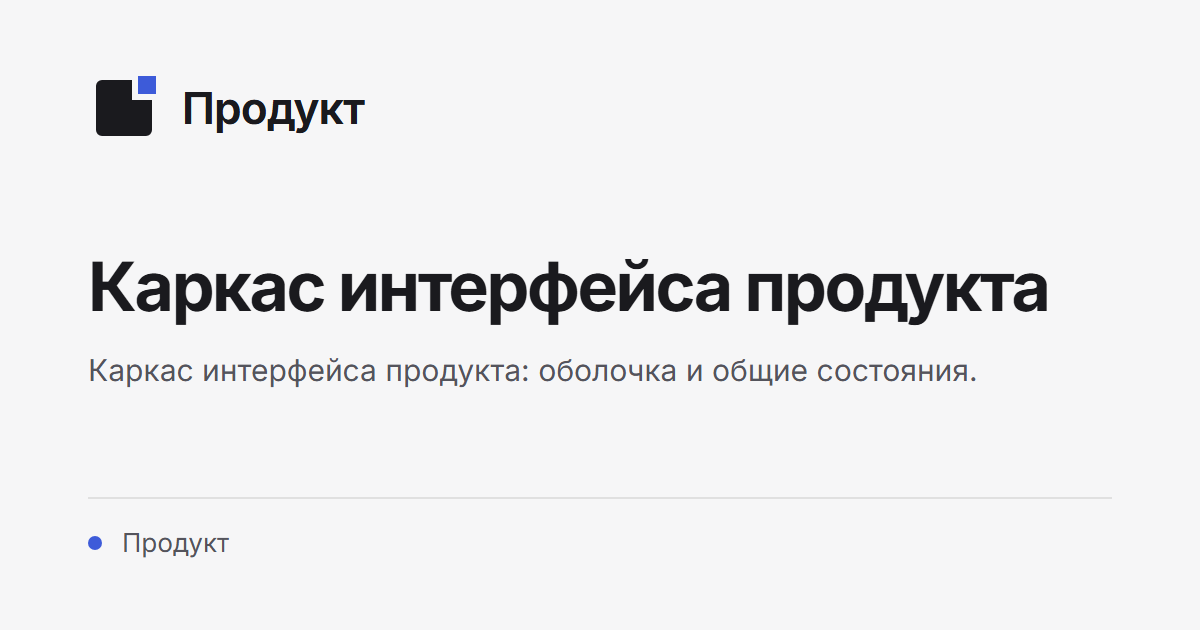
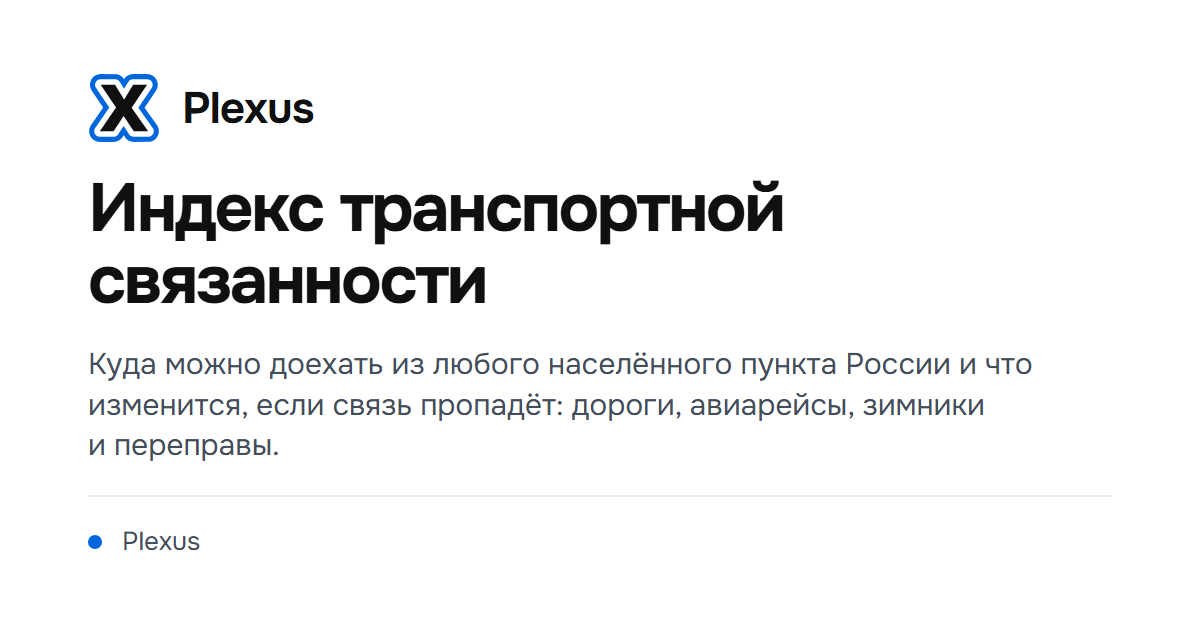
feat(frontend): apply plexus tokens, onest font and brand assets

diff --git a/frontend/src/shared/styles/tokens/semantic.css b/frontend/src/shared/styles/tokens/semantic.css
@@ -1,40 +1,87 @@
 :root {
   color-scheme: light;
 
-  --surface-base: var(--neutral-50);
+  --surface-base: var(--neutral-0);
   --surface-raised: var(--neutral-0);
-  --surface-raised-hover: color-mix(in oklab, var(--neutral-0), var(--neutral-900) 4%);
-  --surface-sunken: var(--neutral-100);
+  --surface-raised-hover: var(--neutral-25);
+  --surface-muted: var(--neutral-25);
+  --surface-sunken: var(--neutral-50);
   --surface-selected: var(--neutral-0);
-  --surface-skeleton: color-mix(in oklab, var(--neutral-0), var(--neutral-900) 8%);
+  --surface-accent-soft: var(--blue-50);
+  --surface-inverse: var(--neutral-950);
+  --surface-skeleton: var(--neutral-100);
 
-  --text-primary: var(--neutral-900);
-  --text-secondary: var(--neutral-600);
-  --text-muted: var(--neutral-500);
-  --text-disabled: color-mix(in oklab, var(--neutral-900) 38%, var(--neutral-0));
-  --text-accent: var(--accent-600);
+  --text-primary: var(--neutral-950);
+  --text-secondary: var(--neutral-700);
+  --text-muted: var(--neutral-600);
+  --text-disabled: var(--neutral-400);
+  --text-on-inverse: var(--neutral-0);
+  --text-accent: var(--blue-600);
   --text-danger: var(--red-600);
-  --text-success: var(--green-700);
-  --text-warning: var(--amber-700);
+  --text-success: var(--green-600);
+  --text-warning: var(--amber-600);
   --action-primary-text: var(--neutral-0);
 
-  --action-primary: var(--accent-500);
-  --action-primary-hover: var(--accent-600);
-  --action-primary-press: var(--accent-700);
-  --action-ghost-hover: color-mix(in oklab, var(--neutral-900) 6%, transparent);
-  --action-ghost-press: color-mix(in oklab, var(--neutral-900) 11%, transparent);
+  --action-primary: var(--blue-600);
+  --action-primary-hover: var(--blue-700);
+  --action-primary-press: var(--blue-800);
+  --action-ghost-hover: color-mix(in oklab, var(--neutral-950) 6%, transparent);
+  --action-ghost-press: color-mix(in oklab, var(--neutral-950) 11%, transparent);
+  --action-danger: var(--red-600);
+  --action-danger-hover: var(--red-700);
   --action-disabled: var(--neutral-100);
 
-  --border-subtle: color-mix(in oklab, var(--neutral-900) 10%, transparent);
-  --border-strong: color-mix(in oklab, var(--neutral-900) 18%, transparent);
+  --border-subtle: var(--neutral-100);
+  --border-default: var(--neutral-200);
+  --border-strong: var(--neutral-300);
+  --border-control: var(--neutral-450);
 
   --status-danger: var(--red-600);
-  --status-success: var(--green-700);
-  --status-warning: var(--amber-700);
-  --status-neutral: var(--neutral-500);
+  --status-danger-surface: var(--red-50);
+  --status-success: var(--green-600);
+  --status-success-surface: var(--green-50);
+  --status-warning: var(--amber-600);
+  --status-warning-surface: var(--amber-50);
+  --status-info: var(--blue-600);
+  --status-info-surface: var(--blue-50);
+  --status-neutral: var(--neutral-600);
 
-  --focus-ring: var(--accent-500);
+  --focus-ring: var(--blue-500);
   --shadow-color: color-mix(in oklab, var(--neutral-950) 12%, transparent);
-  --scrollbar-thumb: color-mix(in oklab, var(--neutral-900) 24%, transparent);
-  --scrollbar-thumb-hover: color-mix(in oklab, var(--neutral-900) 42%, transparent);
+  --shadow-color-strong: color-mix(in oklab, var(--neutral-950) 24%, transparent);
+  --scrim: color-mix(in oklab, var(--neutral-950) 36%, transparent);
+  --scrollbar-thumb: color-mix(in oklab, var(--neutral-950) 22%, transparent);
+  --scrollbar-thumb-hover: color-mix(in oklab, var(--neutral-950) 40%, transparent);
+
+  --iso-1: var(--iso-ring-1);
+  --iso-2: var(--iso-ring-2);
+  --iso-3: var(--iso-ring-3);
+
+  --map-land: var(--land-100);
+  --map-none: var(--land-200);
+  --map-water: var(--water-200);
+  --map-water-line: var(--water-400);
+  --map-border: var(--neutral-0);
+  --map-selected: var(--neutral-950);
+
+  --data-seq-1: var(--teal-1);
+  --data-seq-2: var(--teal-2);
+  --data-seq-3: var(--teal-3);
+  --data-seq-4: var(--teal-4);
+  --data-seq-5: var(--teal-5);
+  --data-seq-6: var(--teal-6);
+  --data-seq-7: var(--teal-7);
+  --data-loss-3: var(--orange-3);
+  --data-loss-2: var(--orange-2);
+  --data-loss-1: var(--orange-1);
+  --data-zero: var(--sand-0);
+  --data-gain-1: var(--violet-1);
+  --data-gain-2: var(--violet-2);
+  --data-gain-3: var(--violet-3);
+
+  --mode-air: var(--mode-air-hue);
+  --mode-river: var(--mode-river-hue);
+  --mode-winter: var(--mode-winter-hue);
+  --mode-ferry: var(--mode-ferry-hue);
+  --mode-road: var(--mode-road-hue);
 }

diff --git a/frontend/src/shared/styles/tokens/palette.css b/frontend/src/shared/styles/tokens/palette.css
@@ -1,27 +1,56 @@
 :root {
   --neutral-0: #ffffff;
-  --neutral-50: #f6f6f7;
-  --neutral-100: #ececee;
-  --neutral-150: #e2e2e6;
-  --neutral-200: #d4d4d9;
-  --neutral-300: #b5b5bd;
-  --neutral-400: #8c8c96;
-  --neutral-500: #686872;
-  --neutral-600: #54545c;
-  --neutral-700: #3e3e45;
-  --neutral-800: #2b2b30;
-  --neutral-850: #222226;
-  --neutral-900: #1a1a1e;
-  --neutral-950: #121215;
-  --accent-200: #b9c6f7;
-  --accent-300: #93a6f2;
-  --accent-500: #3d5bd9;
-  --accent-600: #3149bd;
-  --accent-700: #273b9a;
-  --red-300: #f59a9a;
-  --red-600: #c4322f;
-  --green-300: #7fd1a0;
-  --green-700: #1d7a45;
-  --amber-300: #f2c46d;
-  --amber-700: #8f5a00;
+  --neutral-25: #f8f9fb;
+  --neutral-50: #f2f4f7;
+  --neutral-100: #e8ebf0;
+  --neutral-200: #d5dae2;
+  --neutral-300: #bbc2ce;
+  --neutral-400: #8b96aa;
+  --neutral-450: #7d889c;
+  --neutral-500: #6b7588;
+  --neutral-600: #566171;
+  --neutral-700: #444d5a;
+  --neutral-800: #23262d;
+  --neutral-900: #15171b;
+  --neutral-950: #0e1012;
+  --blue-50: #eaf2fe;
+  --blue-100: #d3e4fd;
+  --blue-300: #8dbefd;
+  --blue-500: #007afc;
+  --blue-600: #0066db;
+  --blue-700: #0057bd;
+  --blue-800: #004ca5;
+  --iso-ring-1: #0066db;
+  --iso-ring-2: #5c9eea;
+  --iso-ring-3: #b9d5f8;
+  --red-50: #fdeeec;
+  --red-600: #c8322b;
+  --red-700: #ad2a24;
+  --green-50: #e9f5ee;
+  --green-600: #1d7a4c;
+  --amber-50: #fff5e3;
+  --amber-600: #9a5b00;
+  --land-100: #f3efe7;
+  --land-200: #ece7dd;
+  --water-200: #c4def0;
+  --water-400: #86bbe0;
+  --teal-1: #eef3e2;
+  --teal-2: #cfe6cf;
+  --teal-3: #9fd0c4;
+  --teal-4: #69b3b4;
+  --teal-5: #3e8f9f;
+  --teal-6: #2b6b85;
+  --teal-7: #1f4a68;
+  --orange-3: #a8432a;
+  --orange-2: #dd8a5e;
+  --orange-1: #f4c9a8;
+  --sand-0: #f1efe9;
+  --violet-1: #cdc7ee;
+  --violet-2: #9186d6;
+  --violet-3: #5a4aa8;
+  --mode-air-hue: #7a5af5;
+  --mode-river-hue: #0b8fb0;
+  --mode-winter-hue: #5b6b85;
+  --mode-ferry-hue: #d0752b;
+  --mode-road-hue: #8b96aa;
 }

diff --git a/frontend/src/shared/styles/tokens/typography.css b/frontend/src/shared/styles/tokens/typography.css
@@ -1,11 +1,11 @@
 :root {
   --font-sans:
-    "Inter Variable", "Inter", ui-sans-serif, system-ui, -apple-system, "Segoe UI", Roboto,
+    "Onest Variable", "Onest", ui-sans-serif, system-ui, -apple-system, "Segoe UI", Roboto,
     sans-serif;
   --font-mono:
     "JetBrains Mono Variable", "JetBrains Mono", ui-monospace, "SFMono-Regular", Menlo, Consolas,
     monospace;
-  --font-features: "kern" 1;
+  --font-features: "kern" 1, "lnum" 1;
   --font-numeric: tabular-nums;
 
   --weight-regular: 400;
@@ -30,4 +30,7 @@
 
   --tracking-normal: 0;
   --tracking-tight: -0.015em;
+  --tracking-display: -0.025em;
+  --font-size-display: clamp(2rem, 1.4rem + 2vw, 3rem);
+  --line-height-display: 1.08;
 }

diff --git a/frontend/src/shared/styles/tokens/elevation.css b/frontend/src/shared/styles/tokens/elevation.css
@@ -9,7 +9,8 @@
 
   --shadow-ring: inset 0 0 0 var(--hairline) var(--border-strong);
   --shadow-raised: 0 1px 2px var(--shadow-color);
-  --shadow-float: 0 1px 2px var(--shadow-color), 0 8px 24px var(--shadow-color);
+  --shadow-float: 0 1px 2px var(--shadow-color), 0 12px 32px -12px var(--shadow-color-strong);
+  --shadow-dialog: 0 2px 6px var(--shadow-color), 0 24px 64px -16px var(--shadow-color-strong);
 
   --opacity-stale: 0.55;
 }

diff --git a/frontend/scripts/exportTokens.ts b/frontend/scripts/exportTokens.ts
@@ -4,7 +4,7 @@ import { fileURLToPath, pathToFileURL } from "node:url"
 import { readTokenSources, TOKEN_FILES, type TokenSource } from "./tokenSources.ts"
 
 export const FONT_PACKAGES = [
-  "@fontsource-variable/inter",
+  "@fontsource-variable/onest",
   "@fontsource-variable/jetbrains-mono",
 ] as const
 

diff --git a/frontend/src/main.tsx b/frontend/src/main.tsx
@@ -1,4 +1,4 @@
-import "@fontsource-variable/inter"
+import "@fontsource-variable/onest"
 import "@fontsource-variable/jetbrains-mono"
 import "./shared/styles/global.css"
 import { StrictMode } from "react"

diff --git a/frontend/src/shared/styles/tokens/radius.css b/frontend/src/shared/styles/tokens/radius.css
@@ -1,6 +1,7 @@
 :root {
-  --radius-sm: 6px;
-  --radius-md: 8px;
-  --radius-lg: 12px;
+  --radius-xs: 2px;
+  --radius-sm: 4px;
+  --radius-md: 6px;
+  --radius-lg: 8px;
   --radius-pill: 9999px;
 }
